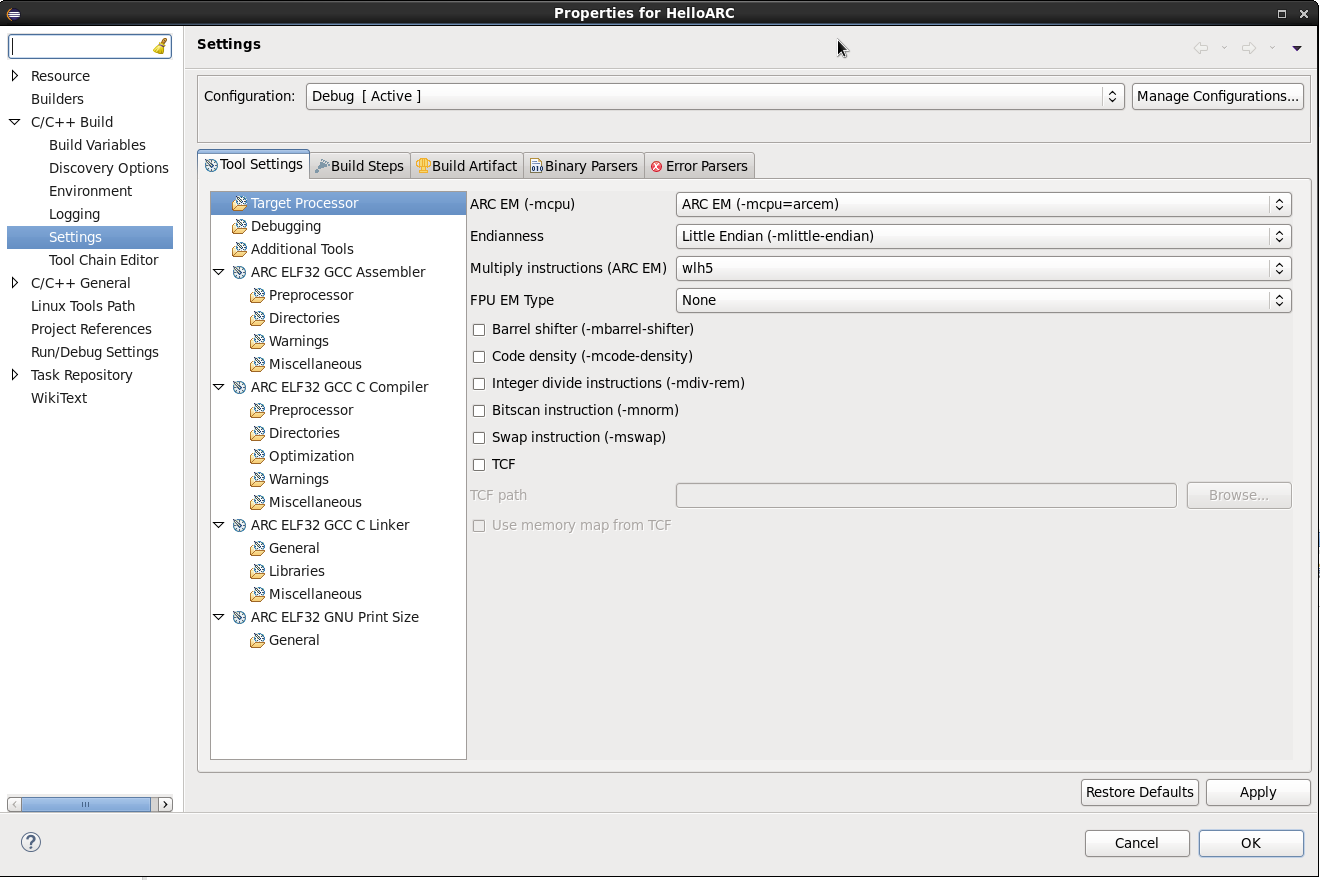
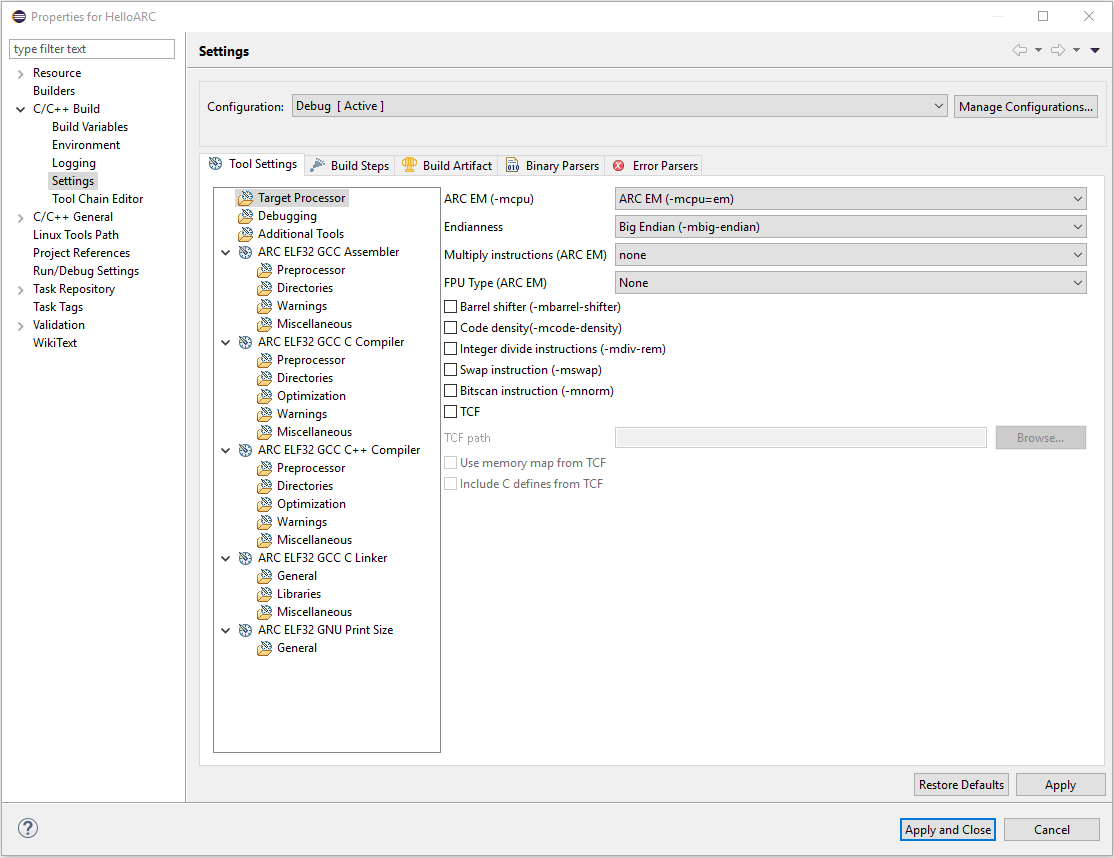
Update TCF options in doc
Updated images and text of TCF options in
documentation.

Changed region(s): [[0.0, 0.0, 1.0, 1.0], [0.1526, 0.8485, 0.3968, 0.8788]]

diff --git a/doc/ide/building-user-guide.rst b/doc/ide/building-user-guide.rst
@@ -106,9 +106,9 @@ passed to this tool in the **All options** field.
 
    List of all the options to be passed to compilerx
 
-If **TCF** is selected, **Use memory map from TCF** checkbox becomes enabled.
+If **TCF** is selected, **Use memory map from TCF** and **Include C defines from TCF** checkboxes become enabled.
 If you check **Use memory map from TCF** box, memory map from TCF file will be
-passed to the linker.
+passed to the linker. Checking **Include C defines from TCF** includes C defines from TCF.
 
 Note that templates from **AXS10x Projects** and **EM Starter Kit Projects**
 already contain memory maps that are used if no other is provided. However,
